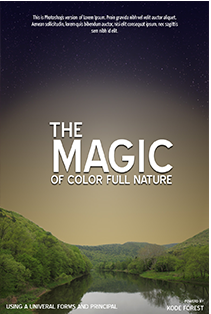
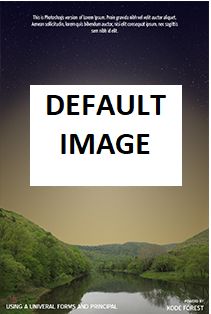
books list page

Changed region(s): [[0.1422, 0.258, 0.8815, 0.6019]]

diff --git a/public/css/styles.css b/public/css/styles.css
@@ -119,6 +119,11 @@ Sidebar heading:	'Oswald', sans-serif;
 				DEFAULT CSS
 ==========================================
 */
+
+.pagination {
+	padding-bottom: 5%;
+}
+
 .wrapper{
 	float:left;
 	width:100%;
@@ -1804,7 +1809,7 @@ footer{
 	border:none;
 	width:100%;
 	padding:6px 10px;
-	color:#CCC;
+	color:#452d2d;
 }
 .banner-search button{
 	height:44px;
@@ -5967,7 +5972,7 @@ nav{
 .books-listing-3 .kode-caption a{
 	display:inline-block;
 	height:36px;
-	width:36px;
+	width:auto;
 	background-color:#ececec;
 	border:solid 1px #e2e2e2;
 	border-radius:100%;

diff --git a/public/js/admin.js b/public/js/admin.js
@@ -44,6 +44,7 @@
     }
 
     function changeMain(main_num) {
+        window.history.replaceState(null, null, '?page_num=' + main_num);
         let mains = $('.main');
         for (let i = 0; i < mains.length; i++) {
             $(mains[i]).hide();

diff --git a/resources/views/books-list.blade.php b/resources/views/books-list.blade.php
@@ -28,6 +28,7 @@
                         <b class="pull-right">$ 1000</b>
                         <input id="ex2" type="text" class="span2" value="" data-slider-min="10" data-slider-max="1000" data-slider-step="5" data-slider-value="[10,400]"/>
                         <a href="#" class="filter">Filter</a>
+                        <a href="{{ route('books-list') }}" class="filter" style="background-color: rgb(201, 64, 64)">Remove filter</a>
                     </div>
                     <!--PRICE FILTER WIDGET END-->
                     <!--NEW ARRIVAL WIDGET START-->
@@ -154,235 +155,30 @@
                 <!--SIDEBAR END-->
                 <div class="col-md-9">
                 	<div class="row">
-                        <!--PRODUCT GRID START-->
-                        <div class="col-md-4 col-sm-6">
-                            <div class="books-listing-3">
-                            	<div class="kode-thumb">
-                                	<a href="#"><img src="images/books-list1.jpg" alt=""></a>
-                                </div>
-                                <div class="kode-text">
-                                	<p class="price">$80.75<span>90.75$</span></p>
-                                    <h3>Stephen King</h3>
-                                    <div class="kode-caption">
-                                    	<p>Well, reading books as a hobby was always a noble, pleasant and very u</p>
-                                        <a href="#"><i class="fa fa-heart"></i></a>
-                                        <a href="#"><i class="fa fa-cart-plus"></i></a>
-                                        <a href="#"><i class="fa fa-link"></i></a>
+                        @foreach ($books as $book)
+                            <!--PRODUCT GRID START-->
+                            <div class="col-md-4 col-sm-6">
+                                <div class="books-listing-3">
+                                    <div class="kode-thumb">
+                                        <a href="{{ route('book', $book->id) }}"><img src="{{ asset('storage_images/books/' . $book->image) }}" 
+                                            onerror="this.src = '{{ asset('storage_images/books/default.png') }}';" alt="book image" width="269" height="361"></a>
+                                    </div>
+                                    <div class="kode-text">
+                                        {{-- <p class="price">$80.75<span>90.75$</span></p> --}}
+                                        <h3>{{ substr($book->title, 0, 25) }}{{ strlen($book->title) > 20 ? '...' : '' }}</h3>
+                                        <div class="kode-caption">
+                                            <p>{{ $book->author->name }}</p>
+                                            <a href="{{ route('books-list', ['category' => $book->category->tag]) }}">{{ $book->category->tag }}</a>
+                                            {{-- <a href="#"><i class="fa fa-heart"></i></a>
+                                            <a href="#"><i class="fa fa-cart-plus"></i></a>
+                                            <a href="#"><i class="fa fa-link"></i></a> --}}
+                                        </div>
                                     </div>
                                 </div>
                             </div>
-                        </div>
-                        <!--PRODUCT GRID END-->
-                        <!--PRODUCT GRID START-->
-                        <div class="col-md-4 col-sm-6">
-                            <div class="books-listing-3">
-                            	<div class="kode-thumb">
-                                	<a href="#"><img src="images/books-list2.jpg" alt=""></a>
-                                </div>
-                                <div class="kode-text">
-                                	<p class="price">$80.75<span>90.75$</span></p>
-                                    <h3>Stephen King</h3>
-                                    <div class="kode-caption">
-                                    	<p>Well, reading books as a hobby was always a noble, pleasant and very u</p>
-                                        <a href="#"><i class="fa fa-heart"></i></a>
-                                        <a href="#"><i class="fa fa-cart-plus"></i></a>
-                                        <a href="#"><i class="fa fa-link"></i></a>
-                                    </div>
-                                </div>
-                            </div>
-                        </div>
-                        <!--PRODUCT GRID END-->
-                        <!--PRODUCT GRID START-->
-                        <div class="col-md-4 col-sm-6">
-                            <div class="books-listing-3">
-                            	<div class="kode-thumb">
-                                	<a href="#"><img src="images/books-list3.jpg" alt=""></a>
-                                </div>
-                                <div class="kode-text">
-                                	<p class="price">$80.75<span>90.75$</span></p>
-                                    <h3>Stephen King</h3>
-                                    <div class="kode-caption">
-                                    	<p>Well, reading books as a hobby was always a noble, pleasant and very u</p>
-                                        <a href="#"><i class="fa fa-heart"></i></a>
-                                        <a href="#"><i class="fa fa-cart-plus"></i></a>
-                                        <a href="#"><i class="fa fa-link"></i></a>
-                                    </div>
-                                </div>
-                            </div>
-                        </div>
-                        <!--PRODUCT GRID END-->
-                        <!--PRODUCT GRID START-->
-                        <div class="col-md-4 col-sm-6">
-                            <div class="books-listing-3">
-                            	<div class="kode-thumb">
-                                	<a href="#"><img src="images/books-list4.jpg" alt=""></a>
-                                </div>
-                                <div class="kode-text">
-                                	<p class="price">$80.75<span>90.75$</span></p>
-                                    <h3>Stephen King</h3>
-                                    <div class="kode-caption">
-                                    	<p>Well, reading books as a hobby was always a noble, pleasant and very u</p>
-                                        <a href="#"><i class="fa fa-heart"></i></a>
-                                        <a href="#"><i class="fa fa-cart-plus"></i></a>
-                                        <a href="#"><i class="fa fa-link"></i></a>
-                                    </div>
-                                </div>
-                            </div>
-                        </div>
-                        <!--PRODUCT GRID END-->
-                        <!--PRODUCT GRID START-->
-                        <div class="col-md-4 col-sm-6">
-                            <div class="books-listing-3">
-                            	<div class="kode-thumb">
-                                	<a href="#"><img src="images/books-list5.jpg" alt=""></a>
-                                </div>
-                                <div class="kode-text">
-                                	<p class="price">$80.75<span>90.75$</span></p>
-                                    <h3>Stephen King</h3>
-                                    <div class="kode-caption">
-                                    	<p>Well, reading books as a hobby was always a noble, pleasant and very u</p>
-                                        <a href="#"><i class="fa fa-heart"></i></a>
-                                        <a href="#"><i class="fa fa-cart-plus"></i></a>
-                                        <a href="#"><i class="fa fa-link"></i></a>
-                                    </div>
-                                </div>
-                            </div>
-                        </div>
-                        <!--PRODUCT GRID END-->
-                        <!--PRODUCT GRID START-->
-                        <div class="col-md-4 col-sm-6">
-                            <div class="books-listing-3">
-                            	<div class="kode-thumb">
-                                	<a href="#"><img src="images/books-list6.jpg" alt=""></a>
-                                </div>
-                                <div class="kode-text">
-                                	<p class="price">$80.75<span>90.75$</span></p>
-                                    <h3>Stephen King</h3>
-                                    <div class="kode-caption">
-                                    	<p>Well, reading books as a hobby was always a noble, pleasant and very u</p>
-                                        <a href="#"><i class="fa fa-heart"></i></a>
-                                        <a href="#"><i class="fa fa-cart-plus"></i></a>
-                                        <a href="#"><i class="fa fa-link"></i></a>
-                                    </div>
-                                </div>
-                            </div>
-                        </div>
-                        <!--PRODUCT GRID END-->
-                        <!--PRODUCT GRID START-->
-                        <div class="col-md-4 col-sm-6">
-                            <div class="books-listing-3">
-                            	<div class="kode-thumb">
-                                	<a href="#"><img src="images/books-list7.jpg" alt=""></a>
-                                </div>
-                                <div class="kode-text">
-                                	<p class="price">$80.75<span>90.75$</span></p>
-                                    <h3>Stephen King</h3>
-                                    <div class="kode-caption">
-                                    	<p>Well, reading books as a hobby was always a noble, pleasant and very u</p>
-                                        <a href="#"><i class="fa fa-heart"></i></a>
-                                        <a href="#"><i class="fa fa-cart-plus"></i></a>
-                                        <a href="#"><i class="fa fa-link"></i></a>
-                                    </div>
-                                </div>
-                            </div>
-                        </div>
-                        <!--PRODUCT GRID END-->
-                        <!--PRODUCT GRID START-->
-                        <div class="col-md-4 col-sm-6">
-                            <div class="books-listing-3">
-                            	<div class="kode-thumb">
-                                	<a href="#"><img src="images/books-list9.jpg" alt=""></a>
-                                </div>
-                                <div class="kode-text">
-                                	<p class="price">$80.75<span>90.75$</span></p>
-                                    <h3>Stephen King</h3>
-                                    <div class="kode-caption">
-                                    	<p>Well, reading books as a hobby was always a noble, pleasant and very u</p>
-                                        <a href="#"><i class="fa fa-heart"></i></a>
-                                        <a href="#"><i class="fa fa-cart-plus"></i></a>
-                                        <a href="#"><i class="fa fa-link"></i></a>
-                                    </div>
-                                </div>
-                            </div>
-                        </div>
-                        <!--PRODUCT GRID END-->
-                        <!--PRODUCT GRID START-->
-                        <div class="col-md-4 col-sm-6">
-                            <div class="books-listing-3">
-                            	<div class="kode-thumb">
-                                	<a href="#"><img src="images/books-list3.jpg" alt=""></a>
-                                </div>
-                                <div class="kode-text">
-                                	<p class="price">$80.75<span>90.75$</span></p>
-                                    <h3>Stephen King</h3>
-                                    <div class="kode-caption">
-                                    	<p>Well, reading books as a hobby was always a noble, pleasant and very u</p>
-                                        <a href="#"><i class="fa fa-heart"></i></a>
-                                        <a href="#"><i class="fa fa-cart-plus"></i></a>
-                                        <a href="#"><i class="fa fa-link"></i></a>
-                                    </div>
-                                </div>
-                            </div>
-                        </div>
-                        <!--PRODUCT GRID END-->
-                        <!--PRODUCT GRID START-->
-                        <div class="col-md-4 col-sm-6">
-                            <div class="books-listing-3">
-                            	<div class="kode-thumb">
-                                	<a href="#"><img src="images/books-list4.jpg" alt=""></a>
-                                </div>
-                                <div class="kode-text">
-                                	<p class="price">$80.75<span>90.75$</span></p>
-                                    <h3>Stephen King</h3>
-
-                                    <div class="kode-caption">
-                                    	<p>Well, reading books as a hobby was always a noble, pleasant and very u</p>
-                                        <a href="#"><i class="fa fa-heart"></i></a>
-                                        <a href="#"><i class="fa fa-cart-plus"></i></a>
-                                        <a href="#"><i class="fa fa-link"></i></a>
-                                    </div>
-                                </div>
-                            </div>
-                        </div>
-                        <!--PRODUCT GRID END-->
-                        <!--PRODUCT GRID START-->
-                        <div class="col-md-4 col-sm-6">
-                            <div class="books-listing-3">
-                            	<div class="kode-thumb">
-                                	<a href="#"><img src="images/books-list6.jpg" alt=""></a>
-                                </div>
-                                <div class="kode-text">
-                                	<p class="price">$80.75<span>90.75$</span></p>
-                                    <h3>Stephen King</h3>
-                                    <div class="kode-caption">
-                                    	<p>Well, reading books as a hobby was always a noble, pleasant and very u</p>
-                                        <a href="#"><i class="fa fa-heart"></i></a>
-                                        <a href="#"><i class="fa fa-cart-plus"></i></a>
-                                        <a href="#"><i class="fa fa-link"></i></a>
-                                    </div>
-                                </div>
-                            </div>
-                        </div>
-                        <!--PRODUCT GRID END-->
-                        <!--PRODUCT GRID START-->
-                        <div class="col-md-4 col-sm-6">
-                            <div class="books-listing-3">
-                            	<div class="kode-thumb">
-                                	<a href="#"><img src="images/books-list7.jpg" alt=""></a>
-                                </div>
-                                <div class="kode-text">
-                                	<p class="price">$80.75<span>90.75$</span></p>
-                                    <h3>Stephen King</h3>
-                                    <div class="kode-caption">
-                                    	<p>Well, reading books as a hobby was always a noble, pleasant and very u</p>
-                                        <a href="#"><i class="fa fa-heart"></i></a>
-                                        <a href="#"><i class="fa fa-cart-plus"></i></a>
-                                        <a href="#"><i class="fa fa-link"></i></a>
-                                    </div>
-                                </div>
-                            </div>
-                        </div>
-                        <!--PRODUCT GRID END-->
+                            <!--PRODUCT GRID END-->
+                        @endforeach
+                        {{ $books->links() }}
                     </div>
             	</div>
             </div>

diff --git a/app/Http/Controllers/BooksController.php b/app/Http/Controllers/BooksController.php
@@ -28,7 +28,36 @@ class BooksController extends Controller
 
     public function list()
     {
-        return view('books-list');
+        $PER_PAGE = 21;
+
+        $category = request()->query('category');
+        // if category exists, filter query
+        if ($category) {
+            $books = Book::whereHas('category', function ($query) use ($category) {
+                $query->where('tag', $category);
+            })->paginate(
+                $perPage = $PER_PAGE,
+                // all columns except created_at, updated_at, deleted_at, isbn
+                $columns = ['id', 'title', 'author_id', 'category_id', 'image'],
+                $pageName = 'books',
+            )->withQueryString();
+        } else {
+            $books = Book::paginate(
+                $perPage = $PER_PAGE,
+                // all columns except created_at, updated_at, deleted_at, isbn
+                $columns = ['id', 'title', 'author_id', 'category_id', 'image'],
+                $pageName = 'books',
+            )->withQueryString();
+        }
+
+        // $books = Book::paginate(
+        //     $perPage = 21,
+        //     // all columns except created_at, updated_at, deleted_at, isbn
+        //     $columns = ['id', 'title', 'author_id', 'category_id', 'image'],
+        //     $pageName = 'books',
+        // )->withQueryString();
+
+        return view('books-list', compact('books'));
     }
 
     //create function to show the form to create a new book

diff --git a/resources/views/admin.blade.php b/resources/views/admin.blade.php
@@ -265,7 +265,8 @@
                         </select>    
                     </td>
                     <td>
-                        <img class="label-cell" src="{{ asset('storage_images/books/' . $book->image) }}" alt="book image" width="100px" height="100px">
+                        <img class="label-cell" src="{{ asset('storage_images/books/' . $book->image) }}" alt="book image" width="100px" height="135px">
+                        {{-- relación de imágenes: 0.75 --}}
                         <img class="editable-form img_editable" hidden id="img_edit{{ $book->id }}" class="img_editable" src="{{ asset('storage_images/books/' . $book->image) }}" alt="book image" width="100px" height="100px">
                         <input name="image" type="file" hidden onchange="readImage(this, {{ $book->id }})" class="editable-form" id="image{{ $book->id }}" 
                         value="{{ $book->image }}" accept="image/*">
